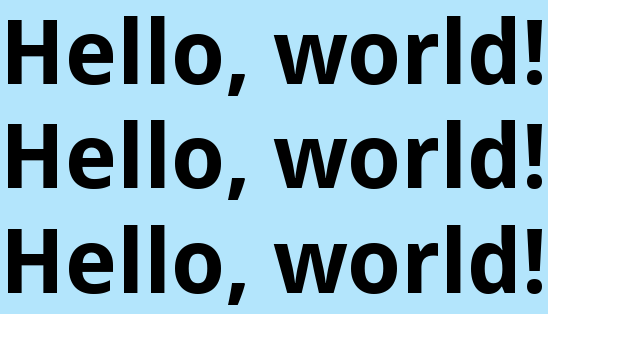
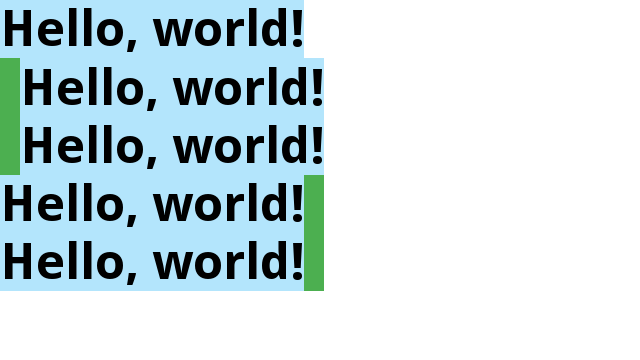
White space collapsing test that break all browsers...
...except Cobalt!

diff --git a/cobalt/layout_tests/testdata/css-text-3/4-1-3-spaces-at-beginning-and-end-of-line-should-be-collapsed.html b/cobalt/layout_tests/testdata/css-text-3/4-1-3-spaces-at-beginning-and-end-of-line-should-be-collapsed.html
@@ -9,16 +9,20 @@
   <style>
     body {
       font-family: "Droid Sans";
-      font-size: 90px;
+      font-size: 50px;
       font-weight: bold;
     }
     .inline-block {
       background-color: #b3e5fc;
       display: inline-block;
     }
-    span {
+    .invisible {
       background-color: #f44336;
       /* TODO(***REMOVED***): Use "border: 1px solid #4caf50;" in addition to. */
+    }
+    .visible {
+      background-color: #4caf50;
+      padding: 0 10px;
     }
   </style>
 </head>
@@ -27,10 +31,16 @@
     <div class="inline-block"> Hello, world! </div>
   </div>
   <div>
-    <div class="inline-block"><span> </span> Hello, world!</div>
+    <div class="inline-block"><span class="visible"></span><span class="invisible"> </span> Hello, world!</div>
   </div>
   <div>
-    <div class="inline-block">Hello, world!<span> </span> </div>
+    <div class="inline-block"><span class="visible"> </span><span class="invisible"> </span> Hello, world!</div>
+  </div>
+  <div>
+    <div class="inline-block">Hello, world!<span class="invisible"> </span><span class="visible"></span></div>
+  </div>
+  <div>
+    <div class="inline-block">Hello, world!<span class="invisible"> </span><span class="visible"> </span></div>
   </div>
 </body>
 </html>
